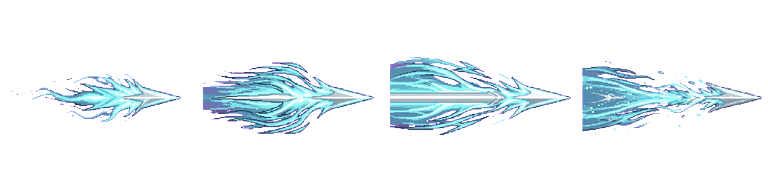
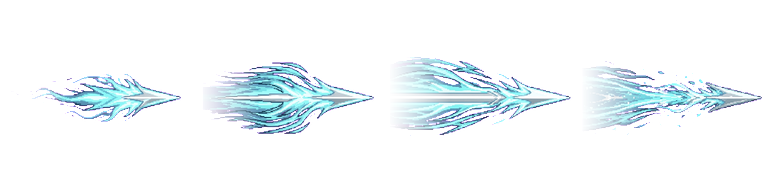
枪势满接入 aura_spear_charge 光环；无名枪法特效左端硬边渐隐（全量测试运行中，未验证）
Claude-Session: https://claude.ai/code/session_01AdrMLJK1Rs8dRqXGtPMhfy

diff --git a/tools/process_yangjia_vfx.py b/tools/process_yangjia_vfx.py
@@ -32,6 +32,7 @@ PLAN = [
     ("vfx_1Z0s_crescent_spark", "fx_block_swing", 4, 18, False, 170, 0.0),
     ("vfx_15RN_white_ring", "fx_block_wave", 4, 14, False, 220, 0.0),
     ("vfx_1AO_brown_vortex", "aura_staff_charge", 4, 10, True, 180, 0.0),
+    ("__v2_only", "aura_spear_charge", 4, 10, True, 200, 0.0),
     ("vfx_12q5_red_x_burst", "fx_blade_bleed_pop", 4, 20, False, 200, 0.0),
     ("vfx_1VcW_ink_ring", "fist_whirl_ring", 4, 16, False, 260, 0.0),
     ("vfx_1pfe_taiji_burst", "sw_taiji_reflect", 4, 14, False, 160, 0.0),
@@ -55,6 +56,16 @@ def clean(path):
     return Image.fromarray(a.astype(np.uint8))
 
 
+def fade_left(path, frames, cell, width=0.35):
+    """v2 的无名枪法光流左端被画面边缘截成硬边：每帧左侧 35% 做透明度渐隐"""
+    im = np.array(Image.open(path).convert("RGBA")).astype(float)
+    ramp = np.clip(np.linspace(0.0, 1.0, int(cell * width)), 0, 1) ** 1.5
+    for i in range(frames):
+        x0 = i * cell
+        im[:, x0:x0 + len(ramp), 3] *= ramp[None, :]
+    Image.fromarray(im.astype(np.uint8)).save(path)
+
+
 def main():
     tmp = pathlib.Path(tempfile.mkdtemp())
     for src, fx, frames, fps, loop, ws, fwd in PLAN:
@@ -62,6 +73,8 @@ def main():
         v2 = V2 / f"{fx.replace('_dash', '')}.png"
         if not v2.exists():
             v2 = V2 / f"{fx}.png"
+        if not v2.exists() and src == "__v2_only":
+            continue
         clean(v2 if v2.exists() else SRC / f"{src}.webp").save(p)
         cmd = [sys.executable, str(ROOT / "tools" / "process_vfx_alpha.py"), str(p), fx, "--frames", str(frames), "--cell", "192", "--fps", str(fps), "--world-size", str(ws)]
         if loop:
@@ -69,6 +82,8 @@ def main():
         if fwd:
             cmd += ["--forward", str(fwd)]
         r = subprocess.run(cmd, capture_output=True, text=True)
+        if fx == "fx_wuming_thrust":
+            fade_left(ROOT / "assets" / "vfx" / f"{fx}.png", frames, 192)
         print(fx, (r.stdout.strip().splitlines() or r.stderr.strip().splitlines() or ["?"])[-1])
 
 
